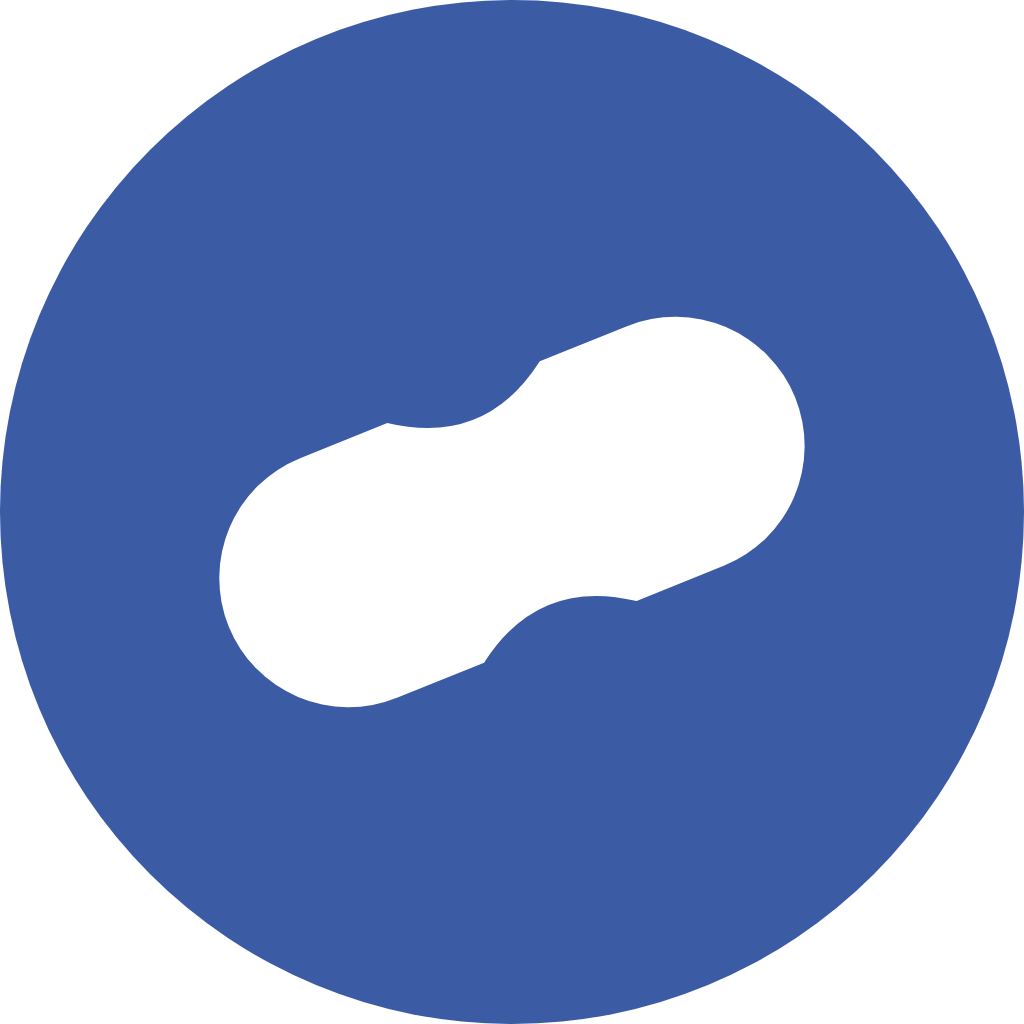
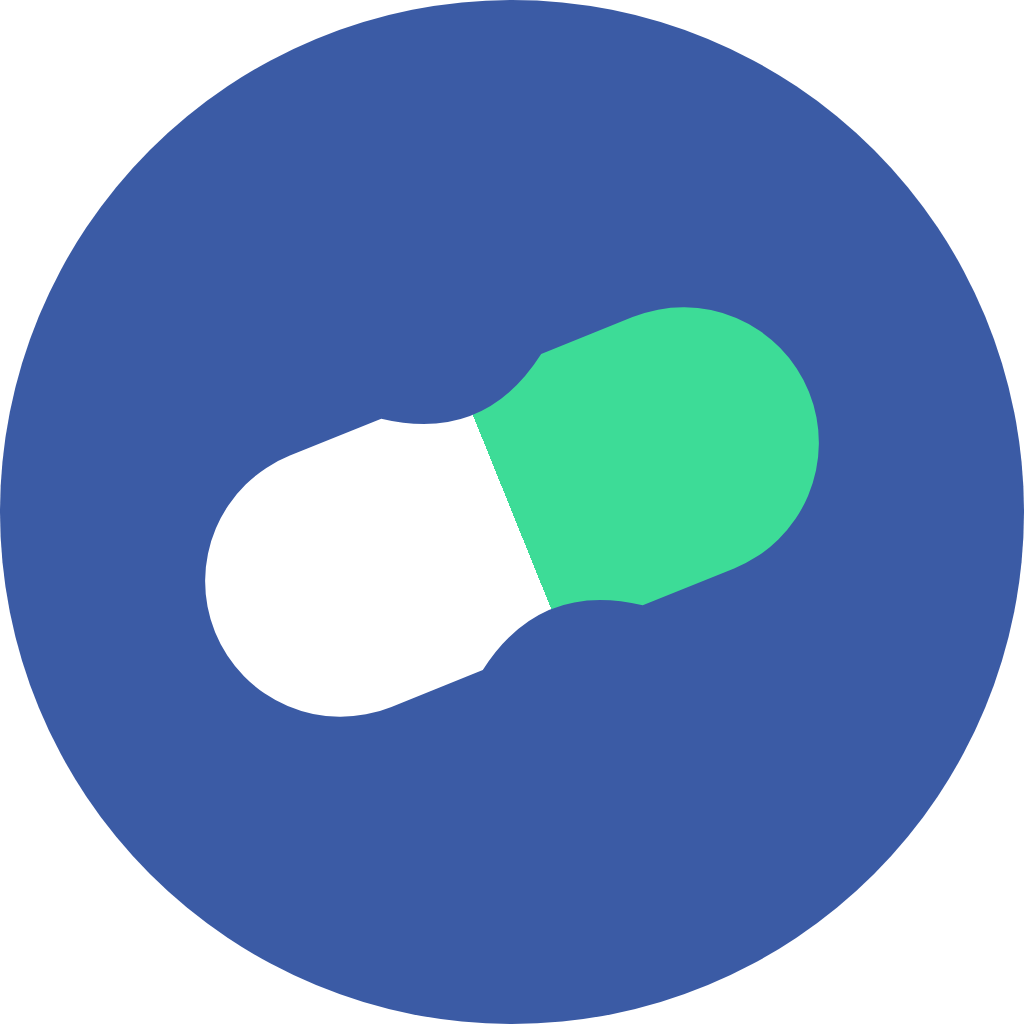
Marca: verde de acento na cápsula e no "Doc"
Opção 4 como padrão e opção 3 no rodapé, conforme escolhido.

A cápsula passa a ser partida na cintura — cobalto na primeira metade, jade
#0C9769 na segunda — e a sílaba "Doc" repete o jade. O corte não é arbitrário:
cai em 50% da caixa da forma, que é exatamente onde a cintura já estava desde
o primeiro desenho. Nenhuma geometria mudou, só a cor.

O jade fica fora da escala brand-* do Tailwind de propósito. Se virasse classe,
apareceria num botão e deixaria de ser acento; só Logo.jsx e Wordmark.jsx
importam de BRAND.acento. Também está 18° de matiz afastado do verde de sucesso
da interface (#16A34A) para o logo não ser lido como selo de "confirmado".

Verde claro não sustenta letra: esmeralda #10B981 dá 2,54 de contraste no
branco, abaixo dos 3,0 exigidos em texto grande. Daí o jade (3,72) no nome e a
menta clara #3DDC97 apenas onde é forma cheia — dentro do ícone sobre cobalto e
em fundo escuro, onde o jade sumiria.

Wordmark ganha accent={false}: mantém a cápsula partida e escreve o nome inteiro
em tinta. É a versão de rodapé e de documento, segura em impressão de uma cor e
em corpo pequeno.

Regenerados favicon.svg, og-image.png e os seis arquivos de public/marca/.
BrandCapsule usa useId para o degradê — sem isso, dois logos na mesma página
compartilhariam o gradiente e o segundo herdaria as cores do primeiro.

diff --git a/src/components/Logo.jsx b/src/components/Logo.jsx
@@ -1,4 +1,4 @@
-import React from 'react';
+import React, { useId } from 'react';
 import { BRAND } from '@/config/brand';
 
 /**
@@ -18,25 +18,60 @@ export const CAPSULE_PATH =
 export const CAPSULE_ANGLE = -22;
 
 /**
- * A cápsula inclinada, pronta para compor. Desenha dentro de um viewBox
- * 113×80 — a caixa que comporta a forma já rotacionada, sem cortes.
+ * A cintura da cápsula cai exatamente na metade da forma — x = 52 de 104. Por
+ * isso o degradê de parada dura em 50% corta bem na dobra, sem inventar uma
+ * divisão que o desenho não tivesse. É o que separa as duas cores da marca.
  */
+export const CAPSULE_SPLIT = '50%';
+
+/** A caixa que comporta a forma já rotacionada, sem cortes. */
 export const CAPSULE_TILTED_VIEWBOX = '0 0 113 80';
-export const BrandCapsule = ({ color = '#ffffff' }) => (
-  <g transform={`rotate(${CAPSULE_ANGLE} 56.5 40) translate(4.5 18)`}>
-    <path d={CAPSULE_PATH} fill={color} />
-  </g>
-);
+
+/**
+ * A cápsula inclinada, pronta para compor. Desenha dentro do
+ * CAPSULE_TILTED_VIEWBOX.
+ *
+ * Recebe as duas cores; passe a mesma nas duas para obter a versão de uma cor
+ * só (documento em preto e branco, gravação, carimbo).
+ */
+export const BrandCapsule = ({ color = BRAND.color, colorFim = BRAND.acento }) => {
+  // Um id por instância: sem isso, dois logos na mesma página compartilham o
+  // degradê e o segundo herda as cores do primeiro.
+  const id = `cap-${useId().replace(/:/g, '')}`;
+  const partido = color !== colorFim;
+
+  return (
+    <>
+      {partido && (
+        <defs>
+          <linearGradient id={id} x1="0" y1="0" x2="1" y2="0">
+            <stop offset={CAPSULE_SPLIT} stopColor={color} />
+            <stop offset={CAPSULE_SPLIT} stopColor={colorFim} />
+          </linearGradient>
+        </defs>
+      )}
+      <g transform={`rotate(${CAPSULE_ANGLE} 56.5 40) translate(4.5 18)`}>
+        <path d={CAPSULE_PATH} fill={partido ? `url(#${id})` : color} />
+      </g>
+    </>
+  );
+};
 
 /**
  * Ícone da marca — a cápsula inclinada dentro de um contêiner na cor da marca.
  * Use onde o espaço é quadrado (avatar, notificação, crachá, favicon).
  * Para assinar uma página, prefira o <Wordmark />.
+ *
+ * Sobre o cobalto, o jade escureceria demais para ser visto: a metade de acento
+ * usa a menta clara, a mesma que o wordmark usa em fundo escuro.
  */
 const Logo = ({ className = 'w-10 h-10', shape = 'square', variant = 'default' }) => {
+  const id = `ico-${useId().replace(/:/g, '')}`;
   const invertido = variant === 'invertido';
+
   const fundo = invertido ? '#ffffff' : BRAND.color;
   const forma = invertido ? BRAND.color : '#ffffff';
+  const formaFim = invertido ? BRAND.acento : BRAND.acentoClaro;
 
   return (
     <svg
@@ -46,13 +81,21 @@ const Logo = ({ className = 'w-10 h-10', shape = 'square', variant = 'default' }
       aria-label={BRAND.name}
       xmlns="http://www.w3.org/2000/svg"
     >
+      <defs>
+        <linearGradient id={id} x1="0" y1="0" x2="1" y2="0">
+          <stop offset={CAPSULE_SPLIT} stopColor={forma} />
+          <stop offset={CAPSULE_SPLIT} stopColor={formaFim} />
+        </linearGradient>
+      </defs>
+
       {shape === 'circle' ? (
         <circle cx="32" cy="32" r="30" fill={fundo} />
       ) : (
         <rect x="2" y="2" width="60" height="60" rx="17" fill={fundo} />
       )}
+
       <g transform={`rotate(${CAPSULE_ANGLE} 32 32) translate(32 32) scale(0.385) translate(-52 -22)`}>
-        <path d={CAPSULE_PATH} fill={forma} />
+        <path d={CAPSULE_PATH} fill={`url(#${id})`} />
       </g>
     </svg>
   );

diff --git a/src/components/Wordmark.jsx b/src/components/Wordmark.jsx
@@ -13,18 +13,27 @@ const STACK =
 /**
  * Assinatura da marca: a cápsula-curativo inclinada à esquerda do nome "aviDoc".
  *
- * A cor vive no símbolo; o nome fica em tinta. Isso mantém o logo legível em
- * qualquer fundo e faz o conjunto pesar equilibrado — o problema da versão
- * anterior, em que a cápsula cobria só a metade direita da palavra.
+ * A cápsula é partida na cintura — cobalto na primeira metade, jade na segunda —
+ * e a sílaba "Doc" repete o jade. As duas cores se correspondem: a metade verde
+ * da forma e a sílaba verde do nome, de modo que o símbolo explica a palavra em
+ * vez de só acompanhá-la.
  *
  * - `size` é o corpo da fonte em px; todo o resto é proporcional.
- * - `dark` inverte para fundo escuro: nome em branco, cápsula clareada.
+ * - `dark` inverte para fundo escuro: nome em branco, cores clareadas. O jade
+ *   some no escuro, então a metade de acento vira menta clara.
+ * - `accent={false}` mantém a cápsula partida mas escreve o nome inteiro em
+ *   tinta. É a versão de rodapé e de documento: nada no texto depende da cor
+ *   para ser lido, o que a torna segura em impressão de uma cor e em corpo
+ *   pequeno.
  *
  * Tamanho mínimo: 14 px. Abaixo disso a cintura fecha — use o <Logo />.
  */
-const Wordmark = ({ size = 22, ink = '#151a20', dark = false, className = '' }) => {
+const Wordmark = ({ size = 22, ink = '#151a20', dark = false, accent = true, className = '' }) => {
   const corCapsula = dark ? '#9FB4DE' : BRAND.color;
+  const corAcento = dark ? BRAND.acentoClaro : BRAND.acento;
   const corNome = dark ? '#ffffff' : ink;
+  const corDoc = accent ? corAcento : corNome;
+
   const svgH = size * 1.15;
   const svgW = (svgH * 113) / 80;
 
@@ -50,7 +59,7 @@ const Wordmark = ({ size = 22, ink = '#151a20', dark = false, className = '' }) 
         style={{ display: 'block', flex: 'none' }}
         xmlns="http://www.w3.org/2000/svg"
       >
-        <BrandCapsule color={corCapsula} />
+        <BrandCapsule color={corCapsula} colorFim={corAcento} />
       </svg>
 
       <span
@@ -62,7 +71,7 @@ const Wordmark = ({ size = 22, ink = '#151a20', dark = false, className = '' }) 
           lineHeight: 1,
         }}
       >
-        aviDoc
+        avi<span style={{ color: corDoc }}>Doc</span>
       </span>
     </span>
   );

diff --git a/src/config/brand.js b/src/config/brand.js
@@ -35,6 +35,24 @@ export const BRAND = {
   },
   /** Cor única da marca — cobalto. Espelha --primary no index.css e brand-600 no Tailwind. */
   color: '#3B5BA5',
+
+  /**
+   * Verde de acento — **exclusivo da marca**. Vive na metade da cápsula e na
+   * sílaba "Doc" do wordmark, e em mais lugar nenhum.
+   *
+   * NÃO está na escala `brand-*` do Tailwind de propósito: se virasse classe,
+   * em pouco tempo apareceria num botão ou num card, e aí deixaria de ser
+   * acento. Só `Logo.jsx` e `Wordmark.jsx` importam daqui.
+   *
+   * Também não é o verde de sucesso da interface — esse é o `green-600` do
+   * Tailwind (#16A34A). O jade fica 18° de matiz afastado justamente para o
+   * logo não ser lido como um selo de "confirmado".
+   *
+   * `acento` é para fundo claro (contraste 3,72 no branco — passa em texto
+   * grande); `acentoClaro` é a gêmea para fundo escuro, onde o jade some.
+   */
+  acento: '#0C9769',
+  acentoClaro: '#3DDC97',
 };
 
 /** Dados legais da pessoa jurídica — permanecem mesmo se a marca mudar. */

diff --git a/supabase/functions/send-appointment-email/index.ts b/supabase/functions/send-appointment-email/index.ts
@@ -27,7 +27,7 @@ function shell(title: string, accent: string, bodyHtml: string) {
   <div style="max-width:560px;margin:0 auto;padding:24px 16px;">
     <div style="background:#fff;border:1px solid #e2e8f0;border-radius:14px;overflow:hidden;">
       <div style="background:linear-gradient(135deg,#28385C 0%,#3B5BA5 100%);padding:22px 28px;">
-        <div style="font-size:20px;font-weight:800;color:#fff;letter-spacing:-.3px;">aviDoc</div>
+        <div style="font-size:20px;font-weight:800;color:#fff;letter-spacing:-.3px;">avi<span style="color:#3DDC97">Doc</span></div>
         <div style="font-size:12px;color:rgba(255,255,255,.85);margin-top:2px;">Marketplace de agendamentos médicos</div>
       </div>
       <div style="padding:28px;">

diff --git a/supabase/functions/send-doctor-invite/index.ts b/supabase/functions/send-doctor-invite/index.ts
@@ -24,7 +24,7 @@ function buildHtml(link: string) {
   <div style="max-width:560px;margin:0 auto;padding:28px 14px;">
     <div style="background:#ffffff;border-radius:14px;overflow:hidden;border:1px solid #e2e8f0;">
       <div style="background:linear-gradient(135deg,#28385C 0%,#3B5BA5 100%);padding:26px 28px;">
-        <h1 style="color:#ffffff;margin:0;font-size:20px;">aviDoc</h1>
+        <h1 style="color:#ffffff;margin:0;font-size:20px;">avi<span style="color:#3DDC97">Doc</span></h1>
         <p style="color:#C9D6EE;margin:6px 0 0;font-size:13px;">Convite para médico parceiro</p>
       </div>
       <div style="padding:28px;font-size:15px;line-height:1.65;">

diff --git a/src/components/Footer.jsx b/src/components/Footer.jsx
@@ -15,7 +15,9 @@ const Footer = () => {
           {/* Marca */}
           <div className="sm:col-span-2 lg:col-span-1 space-y-4">
             <Link to="/" className="flex items-center gap-2">
-              <Wordmark size={25} />
+              {/* Rodapé usa a versão sem acento no texto: o nome inteiro em
+                  tinta sobrevive a impressão de uma cor e a corpo pequeno. */}
+              <Wordmark size={25} accent={false} />
             </Link>
             <p className="text-sm text-slate-500 leading-relaxed max-w-xs">
               Democratizar o acesso à saúde: agende sua consulta sem deslocamento, sem fila e com preço acessível.
